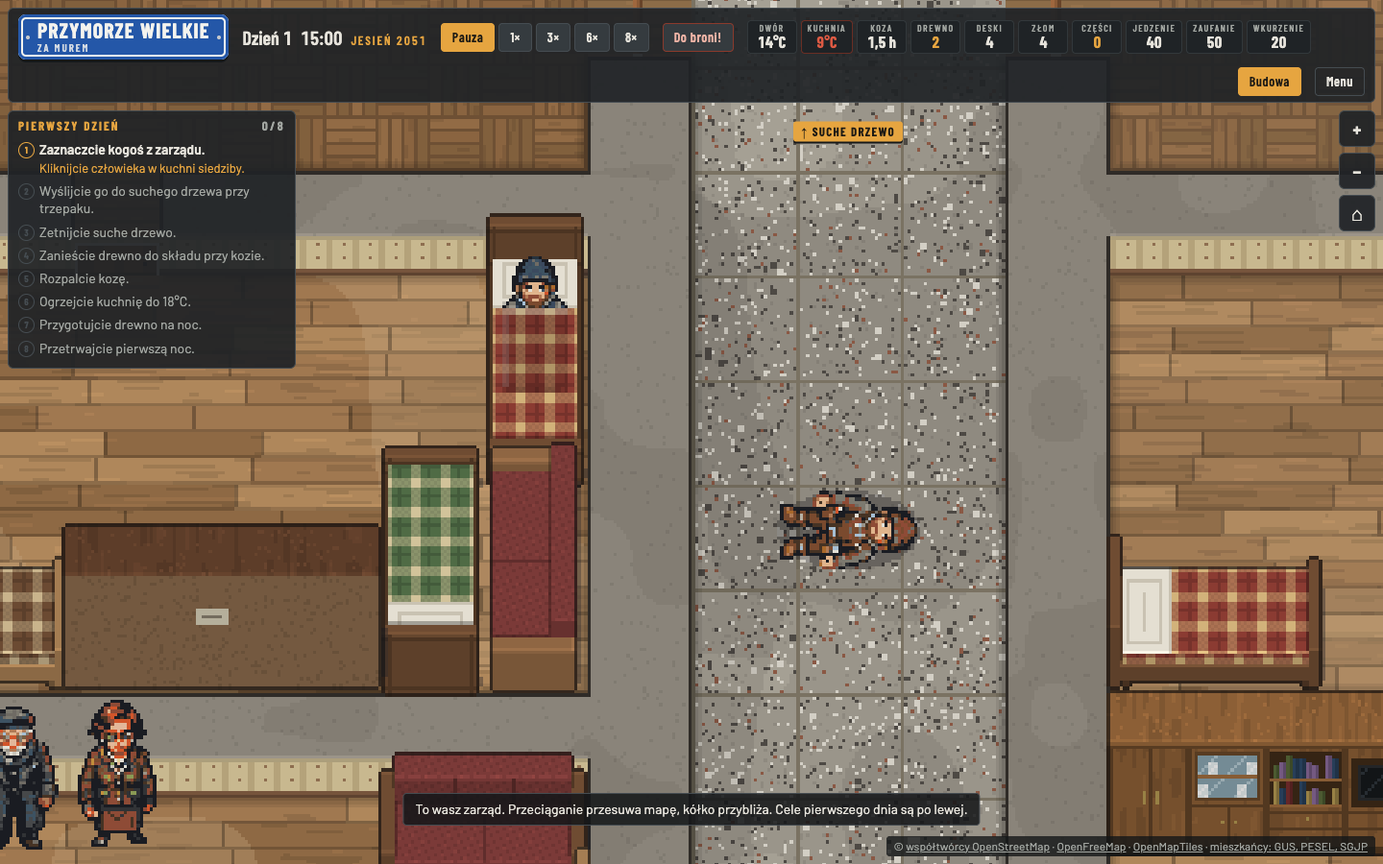
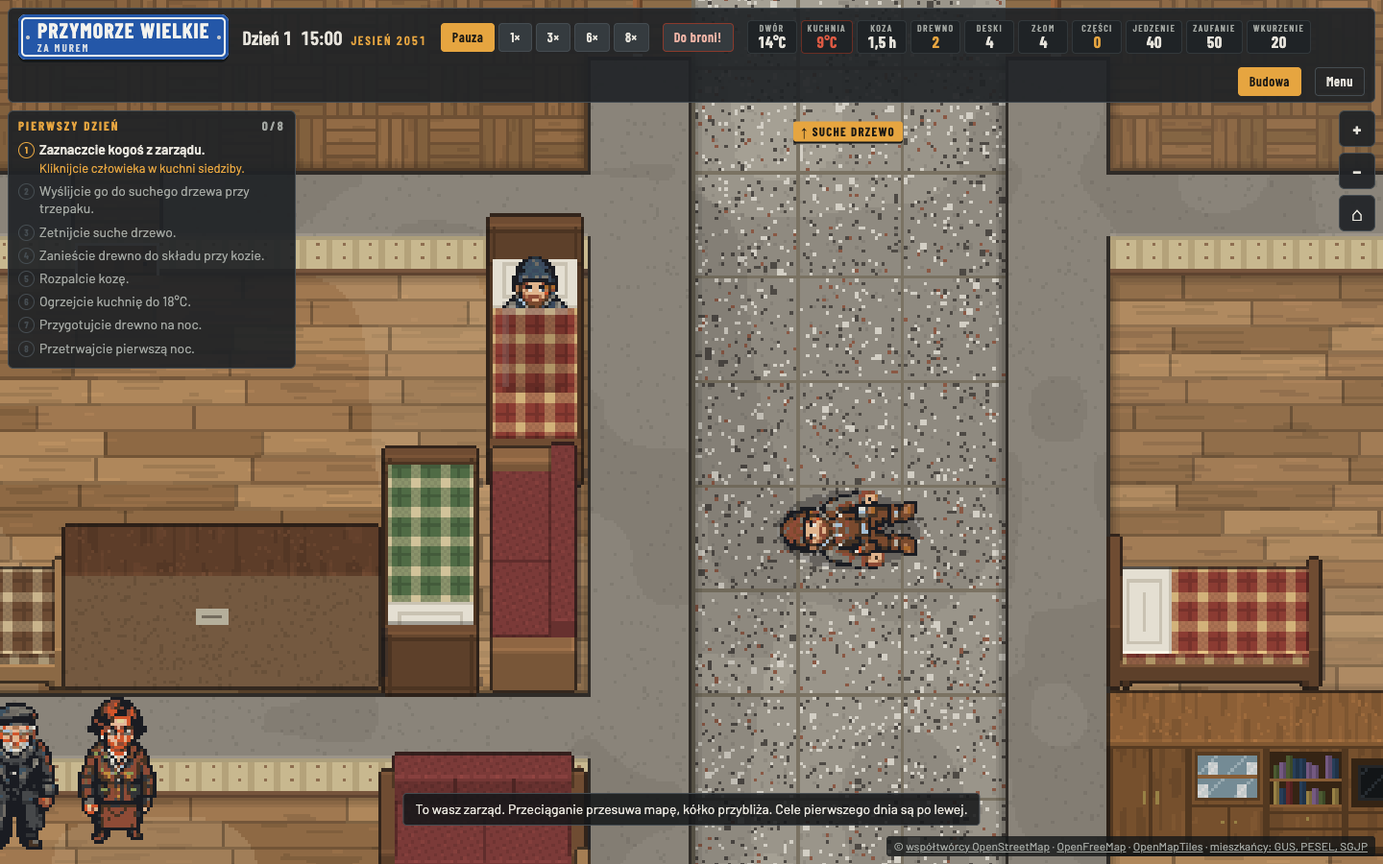
Dziennik, PIXELLAB.md i CLAUDE.md: kładzenie się, upadek i wstawanie z PixelLab
Wpis w POSTEP.md (koszt 24 z 43 generacji, decyzje, bramka), sekcje o przejściach w PIXELLAB.md, zdanie o przejściach w
CLAUDE.md, zrzuty w docs/postep (upadek, wstawanie, kładzenie się, leżenie w domu, zwłoki), wolnyBlok omija korony drzew.

Changed region(s): [[0.5625, 0.56, 0.6875, 0.6844], [0.0312, 0.8089, 0.125, 0.9956], [0.0, 0.8089, 0.0312, 0.9022]]

diff --git a/tools/shots.ts b/tools/shots.ts
@@ -2159,7 +2159,8 @@ const SHOTS: Shot[] = [
               });
             }
           });
-          zm.setCam(x0 + 6.5, y0 + 3.5, 2.2);
+          // środek kadru bliżej lewej, żeby pierwsza kolumna nie wypadała pod panelem celów
+          zm.setCam(x0 + 5.5, y0 + 3.5, 2.2);
           return ids;
         },
         [start[0], start[1], wynik] as const,
@@ -6491,7 +6492,8 @@ async function przewin(page: Page, sekundy: number) {
   await frames(page, 2);
 }
 
-/** wolny blok w × h kafelków najbliżej siedziby (jak wolnyRzad, ale na kilka rzędów) albo null */
+/** wolny blok w × h kafelków najbliżej siedziby (jak wolnyRzad, ale na kilka rzędów i poza koronami drzew, które
+    przykrywają pionki) albo null */
 async function wolnyBlok(page: Page, w: number, h: number): Promise<[number, number] | null> {
   return page.evaluate(
     ([w, h]) => {
@@ -6501,8 +6503,23 @@ async function wolnyBlok(page: Page, w: number, h: number): Promise<[number, num
       const b = sim.w.buildings[sim.w.hq];
       const cx = Math.round((b.x0 + b.x1) / 2);
       const cy = Math.round((b.y0 + b.y1) / 2);
+      // kafelki pod koronami drzew (bez krzaków): korona rysuje się nad pionkami
+      const korona = new Uint8Array(size * size);
+      for (const t of sim.w.trees) {
+        if (t.kind === 2) continue;
+        const r = Math.ceil(t.r) + 1;
+        for (let dy = -r; dy <= r; dy++)
+          for (let dx = -r; dx <= r; dx++) {
+            const x = Math.floor(t.x) + dx;
+            const y = Math.floor(t.y) + dy;
+            if (x >= 0 && y >= 0 && x < size && y < size && Math.hypot(x + 0.5 - t.x, y + 0.5 - t.y) <= t.r + 0.7)
+              korona[y * size + x] = 1;
+          }
+      }
       const wolny = (x: number, y: number) =>
-        !sim.blocked[y * size + x] && !st.things.some((t) => x >= t.x && x < t.x + t.w && y >= t.y && y < t.y + t.h);
+        !sim.blocked[y * size + x] &&
+        !korona[y * size + x] &&
+        !st.things.some((t) => x >= t.x && x < t.x + t.w && y >= t.y && y < t.y + t.h);
       let najlepszy: [number, number] | null = null;
       let najblizej = 1e9;
       for (let y = cy - 30; y <= cy + 30; y++)

diff --git a/docs/POSTEP.md b/docs/POSTEP.md
@@ -910,6 +910,33 @@ Zrzuty obejrzane (`docs/postep/`): `m3-lezenie-dom.png` (śpiący w łóżku z g
 
 Bramka na 467a454 (kod) i tym wpisie: `npm test` 2267 zdanych, 1 oczekiwana porażka, 8 pominiętych (135 plików; przed gałęzią było 2227 i 132 pliki, nowe testy: `lezenie`, `bron-pixellab`, `dlonie` i dopisane w `ludzie-pixellab` i `ludzie-layer`); `npx biome check src tests tools server index.html` i `tsc --noEmit` czyste; `npm run build` bez błędów; boty bez zmian (`npm run bot` da4b24e0 i dad44c81, `npm run bot:zombie` 18b03936 i e8b7d9d5; w `src/sim`, `src/gov` i `src/core` zero zmian); pełne `npm run shots -- --dalej` 237 scenariuszy (234 dotychczasowe i 3 nowe) bez błędów strony i bez ponowień; obejrzane `kotwica-lezenie-dom`, `kotwica-lezenie-zwloki`, `kotwica-bron-cios` i `kotwica-pozy-dom`, a trzy nowe scenariusze przechodzą też z `--kod`. `npm run perf` (Przymorze 150 pionków, także ze stadem w nocy przy 8×, laptop i telefon z CPU 4×) 59,9 do 60,0 kl/s, zero klatek powyżej 33 ms, raz najgorsza klatka 33 ms na telefonie (kamera stoi, stado).
 
+### M3: kładzenie się, upadek i wstawanie z PixelLab, 19.10.2026 (gałąź `claude/vigilant-goldwasser-35dc29` od `m3-ludzie-lezenie-bron` 32d04d2 scalonej z `pelna-gra` b424828, lokalnie, nic nie wypchnięte)
+
+Cztery postacie zarządu (emeryt, emerytka, złota rączka, młoda) mają animacje upadku przy śmierci, kładzenia się i wstawania z PixelLab, a widok gra je raz przy zmianie stanu. Zamówione według zadania z koordynacji: szablony `falling-back-death` i `getting-up`, 24 generacje z abonamentu, 0 USD kredytów (limit z zadania 43 z 400); z uzgodnionych 400 zostało 19. Symulacja bez zmian (zero zmian w `src/sim`, `src/gov`, `src/core`).
+
+Zamówienia i koszt (rachunki zamówień, lista z kosztem przy każdej postaci w `assets/manifest.json`: `animacje` i `odrzucone`):
+- Pilot: emeryt, zachód, `falling-back-death` (1) i `getting-up` (1), obejrzane w arkuszu klatek; potem południe i północ emeryta obu szablonów (4). Upadek wyszedł czytelnie w trzech kierunkach, wstawanie tylko na zachód: na południu zaczyna się od przysiadu, na północy od czworaków i bez czapki, więc te dwa kierunki odrzuciłem (2 generacje, usunięte z PixelLab).
+- Pozostałe trzy postacie: upadek w trzech kierunkach i wstawanie na zachód, po 4 generacje (12), za pierwszym razem bez poprawek. Razem przejścia to 18.
+- Poprawki z listy opcjonalnych, z pozostałego budżetu (6): warta emeryta na zachód z lampą w lewej ręce (1, wcześniej lampa była schowana za ciałem) i gotowanie na zachód z garnkiem na ziemi u wszystkich czterech (5: u emeryta próba w osobnej grupie i drugie zamówienie w grupie właściwej, bo identyczne zamówienie PixelLab uznał za to samo ujęcie i nie dopiął go do grupy). Celowania na południe i północ nie ruszałem. Zastąpione wersje zachodu są w manifeście w `odrzucone` z kosztem.
+- Nauki: `docs/PIXELLAB.md`, „Czego nauczyły przejścia” i „Koszt przejść i poprawek”.
+
+Co jest gdzie:
+- Atlas (`npm run atlasy`): prace `smierc` (7 klatek, południe, północ i zachód, wschód to lustro) i `wstawanie` (5 klatek, tylko zachód z lustrem; `PRACE` ma opcje `kotwica` i `tylkoZachod`). `ludzie.png` 2048×916 (było 2048×875), 614 kB (było 571), `grafika.json` 286 kB. Kotwica klatek schodzi liniowo od dolnej krawędzi sylwetki (stoi) do jej środka 2 px nad punktem pionka (leży): `kotwicaPrzejscia` w `tools/ludzie.ts`, a `SRODEK_LEZACEGO` w `animacjePozy.ts` to ten sam środek co komórka leżenia w `poseOf` (test w `animacje-pozy.test.ts`), więc ostatnia klatka upadku i pierwsza wstawania stoją tam, gdzie zaczyna się leżenie.
+- Widok: `src/render/przejscia.ts` (bez PixiJS, testy w Node): `PrzejsciaPionkow` wykrywa kładzenie się i wstawanie po zmianie `lie` w pozie, `NoweZwloki` wykrywa zwłoki, które powstały po pierwszej klatce widoku, i pamięta ostatni kierunek członka zarządu, bo jego pionek znika w tym samym ticku, w którym powstają zwłoki. `ludziePixellab.ts`: `przejscie`, `klatkaZwlok`, `klatekPrzejscia`, `maPrzejscie`; `ludzieLayer.ts`: tekstury; `view.ts`: wpięcie w pętlę pionków i w `drawCorpses`. Stan przejść tylko w widoku, nigdy w `SimState`.
+- Zachowanie: pionek, który zaczyna spać na podłodze, kładzie się (wstawanie od tyłu: stoi, przysiad, półsiad), potem leży w komórce z klatki stania; strona głowy idzie z kierunku pionka (`STRONA_PODLOGI`: południe w lewo, północ i zachód w prawo, wschód w lewo), tak kończy się upadek w danym kierunku. Kto się budzi, wstaje od miejsca, w którym leżał, i dogania prawdziwe położenie do końca animacji (symulacja puszcza go ścieżką od razu). Zwłoki członka zarządu, który zginął podczas gry, upadają w kierunku, w którym patrzył, i zostają na ostatniej klatce upadku. Czas przejść to czas gry (8 klatek na sekundę wstawania, 10 upadku), więc na pauzie stoją, a z tempem gry przyspieszają. Bez przejść: łóżko (ma własną komórkę z kocem), mieszkańcy, szabrownicy, handlarz, sąsiedzi i szwendacze (brak animacji), zwłoki z wczytanej gry i ktoś, kto zginął we śnie (leżą od razu).
+
+Sprawdzone w żywej grze (Chromium, tempo 1×, serwer deweloperski): zabicie członka zarządu przez symulację dało upadek w 7 różnych klatkach co 100 ms, kotwica schodziła od stóp do środka leżącego ciała, sprite zostawał na ostatniej klatce, wpis upadku znikał; praca snu na podłodze dała kładzenie, a gdy symulacja za dnia od razu zakończyła sen, wstawanie w 5 klatkach co 120 ms i powrót do stania.
+
+Decyzje do przejrzenia przez Mateusza:
+- Przejścia mają tylko cztery postacie zarządu. Mieszkańcy, szabrownicy, handlarz i sąsiedzi nadal leżą z komórki i padają bez animacji. Upadek w trzech kierunkach i wstawanie na zachód to 4 generacje na postać, czyli około 80 dla dwudziestu mieszkańców (zostało 19 z 400).
+- Zwłoki leżą w pozie ostatniej klatki upadku (płasko na plecach z uniesioną ręką), a śpiący na podłodze w komórce z klatki stania, więc kładzenie się kończy skokiem z półsiadu na płasko, jedną klatkę. Gdyby przeszkadzało, komórka śpiącego mogłaby brać pozę z innej klatki albo z kolejnej generacji.
+- W łóżku przejść nie ma: pionek pod kocem leży głową na poduszce, a pełne ciało wstające z łóżka wymagałoby animacji ułożonej wzdłuż łóżka.
+- Zwłoki szabrownika, handlarza i sąsiada to nadal losowy dorosły mieszkaniec (rzecz zna tylko wygląd), więc bez upadku z PixelLab.
+
+Zrzuty obejrzane (`docs/postep/`): `m3-upadek.png` (cztery postacie w czterech kierunkach, każda w siedmiu klatkach upadku obok siebie), `m3-wstawanie.png` i `m3-kladzenie.png` (czterech z zarządu w czterech fazach), `m3-lezenie-dom.png` i `m3-lezenie-zwloki.png` (po zmianie: kładzenie się zakończone, zwłoki zarządu na ostatniej klatce upadku). Scenariusze `kotwica-upadek`, `kotwica-wstawanie` i `kotwica-kladzenie` są nowe (z `--kod` puszczają to samo z kodu, bez przejść), a `kotwica-lezenie-dom` i `kotwica-lezenie-zwloki` przewijają zegar gry pomocnikiem `przewin` (przesuwa `st.tick` bez kroków symulacji, bo pionki ze scenariusza budziłyby się, a przejścia na pauzie stoją).
+
+Bramka na 60ada45 (kod) i tym wpisie: `npm test` 2308 zdanych, 1 oczekiwana porażka, 8 pominiętych (137 plików; nowe testy: `przejscia`, a dopisane w `animacje-pozy`, `ludzie-atlas`, `grafika-ludzie`, `ludzie-pixellab` i `ludzie-layer`); `npx biome check src tests tools server index.html` i `tsc --noEmit` czyste; `npm run build` bez błędów; `npm run atlasy -- --sprawdz` aktualne; boty bez zmian (`npm run bot` da4b24e0 i dad44c81, `npm run bot:zombie` 18b03936 i e8b7d9d5; w `src/sim`, `src/gov` i `src/core` zero zmian); pełne `npm run shots -- --dalej` 240 scenariuszy (237 dotychczasowych i 3 nowe) bez błędów i bez ponowień; obejrzane `kotwica-upadek`, `kotwica-wstawanie`, `kotwica-kladzenie`, `kotwica-lezenie-dom`, `kotwica-lezenie-zwloki` i `kotwica-pozy-dom`, a nowe i zmienione scenariusze przechodzą też z `--kod`. `npm run perf` (150 pionków, laptop i telefon z CPU 4×, kamera stoi i jedzie): Przymorze przy 1× 59,9 do 60,0 kl/s, Przymorze ze stadem 60 szwendaczy nocą przy 8× 59,8 do 60,0 (raz najgorsza klatka 33 ms na telefonie), Lanciego przy 8× 60,0; wszędzie zero klatek powyżej 33 ms, p95 16,7 do 16,8 ms (maszyna była obciążona kilkoma sesjami naraz, load 9 do 19).
+
 ## Następne
 
 - Wspólny płot z duchem planu i z jednego materiału (9007cd2), kotwica stylu w grze (d0256f2: trawnik, chodnik, bloki i trzepak z PixelLab) i płot odporny na napór w trybie zombie (945f565) są w `pelna-gra` i od 18.10.2026 wieczorem na serwerze testowym (30b1cb5), od wdrożenia f9ad33d także menu budowy z panelem z boku, od 6332830 naprawa pni na linii obwodu, a od c9c9cd1 postacie z PixelLab z animacjami (wpisy wyżej). Następne wdrożenie: mapa miasta, gdy jej sesja rozstrzygnie cele karty nocy w domu i przejdzie pełne zrzuty. GitHub Pages: PR #7 czeka na decyzję i scalenie Mateusza. W trybie zombie siatkę przewraca dopiero tłum ponad 16 szwendaczy w jednym miejscu, a dymek paska „Siatka” pokazuje największy tłok. Do sprawdzenia w grze: na Lanciego otworzyć 10F i zlecić wspólny płot; z samymi deskami albo samym złomem menu pokazuje płot z jednego materiału.
@@ -923,6 +950,8 @@ Kotwica stylu w grze (18.10.2026): w `pelna-gra` od d0256f2 (przewinięcie po br
 Postacie z PixelLab w grze (18.10.2026): wszystkie 24 postaci z chodem i staniem, zarząd z 14 pracami, wybór po płci i wieku osoby i przemalowane wersje kolorystyczne (wpis „M3: postacie z PixelLab w grze”). Gałąź `m3-kotwica-w-grze`, lokalnie, czeka na scalenie do `pelna-gra` i na wdrożenie po OK Mateusza. Mateusz ocenia wygląd ludzi (zestawienia `docs/postep/m3-postacie-*.png` albo na żywo: ta sama gra z `?grafika=kod` i bez) oraz decyzje z końca wpisu. Po zmianie w `assets/raw` albo w manifeście: `npm run atlasy`; nowe animacje zamawia się przez MCP PixelLab i zbiera `npm run animacje`.
 
 Leżenie, zwłoki i nakładka broni z PixelLab (19.10.2026): gałąź `m3-ludzie-lezenie-bron`, lokalnie, od `m3-kotwica-w-grze` daf38a9 (wpis „M3: leżenie, zwłoki i nakładka broni z PixelLab”), czeka na scalenie wraz z postaciami i na OK Mateusza do wdrożenia. Mateusz ocenia wygląd leżących i zwłok (zestawienia `docs/postep/m3-lezenie-*.png` albo na żywo: śpiący w łóżku, ktoś bez łóżka na podłodze, zwłoki po walce) i decyzje z końca wpisu.
+
+Kładzenie się, upadek i wstawanie z PixelLab (19.10.2026): gałąź `claude/vigilant-goldwasser-35dc29` (z `m3-ludzie-lezenie-bron` 32d04d2 i `pelna-gra` b424828), lokalnie, wpis „M3: kładzenie się, upadek i wstawanie z PixelLab”, czeka na scalenie i na OK Mateusza do wdrożenia. Mateusz ocenia wygląd (zestawienia `docs/postep/m3-upadek.png`, `m3-wstawanie.png`, `m3-kladzenie.png` albo na żywo: zabić kogoś z zarządu, położyć kogoś na podłodze) i decyzje z końca wpisu. Po zmianie w `assets/raw` albo w manifeście: `npm run atlasy`.
 
 Angielski domyślnie (gałąź `angielski`, lokalnie, 18.10.2026): gotowy do scalenia do `pelna-gra` w całości (czubek gałęzi; ostatnia zmiana kodu 18a2501), ma w sobie `pelna-gra` ace6c0c z domem komitetu, handlarzem i wędrowcami. Po scaleniu i wdrożeniu Mateusz gra po angielsku i przegląda decyzje z „Decyzji” (słowniczek `docs/SLOWNICZEK-EN.md`); przełącznik EN/PL jest na karcie startowej i w Menu. Przy wdrożeniu: zapisy z nowej wersji mają w kronice teksty w obu językach przy tej samej wersji zapisu, więc stara wersja gry (wycofanie albo stary skrypt z pamięci przeglądarki) pokazałaby w kronice `[object Object]`; wycofywać tylko razem z czyszczeniem zapisów albo wcale.
 
@@ -1058,6 +1087,13 @@ Mateusz rano: lepiej wdrożyć na serwer w projekcie cergo (więcej miejsca i mo
   - `setScene` nie zeruje liczników i pionków; dziś scena ładuje się raz na stronę,
   - `pointercancel` traktowany jak puszczenie palca; rzadkie, bo plansza ma `touch-action: none`,
   - tasowanie przez `sort` i `Math.hypot`/`sin`/`cos` mogą dawać różne wyniki w różnych przeglądarkach; ważne, gdy zapisy będą przechodzić między przeglądarkami. Tasowanie w wydarzeniach zarządu poprawione 17.10.2026 (CI na Node 24); `Math.hypot`/`sin`/`cos` w decyzjach symulacji do sprawdzenia.
+- Przejścia leżenia z PixelLab (19.10.2026, sesja „Animacje przejść leżenia”, do przejrzenia przez Mateusza rano, koszt pomyłki: zamówienie dodatkowych generacji albo zmiana kilku stałych w `src/render/przejscia.ts`):
+  - kładzenie się, upadek i wstawanie mają tylko cztery postacie zarządu; mieszkańcy, szabrownicy, handlarz i sąsiedzi leżą z komórki i padają bez animacji (dla dwudziestu mieszkańców to około 80 generacji, zostało 19 z 400), więc dokupienie to decyzja po obejrzeniu wyglądu zarządu;
+  - zwłoki zarządu zostają w pozie ostatniej klatki upadku (płasko na plecach z uniesioną ręką), a śpiący na podłodze leży w komórce z klatki stania, więc kładzenie się kończy skokiem z półsiadu na płasko (jedna klatka);
+  - w łóżku przejść nie ma, bo łóżko ma własną komórkę z kocem, a ciało poziomo na nim nie leży;
+  - wstawanie jest tylko na zachód z lustrem na wschód (południe i północ z szablonu `getting-up` odrzuciłem, 2 generacje), a kładzenie się to wstawanie od tyłu; przy pobudce pionek dogania prawdziwe położenie w trakcie animacji (`u²`), bo symulacja puszcza go ścieżką od razu;
+  - tempo: wstawanie i kładzenie 8 klatek na sekundę gry, upadek 10 (`PRZEJSCIA` w `src/render/art/animacjePozy.ts`); czas to czas gry, więc na pauzie przejścia stoją;
+  - wydałem 24 z przydzielonych 43 generacji (18 na przejścia, 6 na poprawki warty emeryta na zachód i gotowania na zachód z garnkiem), celowania na południe i północ nie ruszałem, to znane ograniczenie modelu; kredytów USD 0.
 
 ## Zaparkowane
 - Menu budowy (18.10.2026), po wejściu badań: widok z kłódkami (`BUILD_MENU.showLocked`) i nazwy badań w `TECH_NAMES`, znaczek „NOWE” przy świeżo odblokowanych (potrzebuje stanu „co gracz już widział”), pracownia (miejsce do badań) jako pierwsza budowla projektu badań w zakładce Dom, kolejne zakładki (Jedzenie, Prąd, Obrona) razem z budowlami z gospodarki.
@@ -1071,9 +1107,9 @@ Mateusz rano: lepiej wdrożyć na serwer w projekcie cergo (więcej miejsca i mo
 - Przełącznik pięter z GDD (piwnica, parter, typowe piętro) jeszcze nie istnieje, przekrój pokazuje tylko parter siedziby (sprawdzone 18.10.2026 przy kotwicy stylu).
 - Surowce: porzucone hulajnogi i rowery z wypożyczalni po całej mapie (nie blokują, więc nie zmieniają dróg ani skrótów), żeby okolica się wyczerpywała i trzeba było chodzić dalej; opis w projekcie surowców, etap 1c. Więcej wraków dalej od siedziby zmieniłoby skróty botów, bo wrak blokuje.
 - Kronika mieszkańców: „Padła chmura” w `src/mieszkancy/kronika.ts` przenieść z lat 2039–2043 na 2034 (Wielkie Wylogowanie z GDD) przy najbliższym podbiciu `WERSJA_GENERATORA`. Wstęp na karcie startowej (`LORE`) może wtedy też wspomnieć Wylogowanie, po scaleniu wersji angielskiej.
-- Animacje kładzenia się, śmierci i wstawania z PixelLab (18.10.2026, M3; leżenie i zwłoki są od 19.10.2026 z klatki stania, bez generacji): leżący po prostu leży, bez kładzenia się i bez wstawania, ranny też. Osobne zamówienie (szablony `falling-back-death`, `getting-up`), około 1 generacji na kierunek. Zwłoki szabrownika, handlarza i sąsiada to losowy dorosły mieszkaniec (rzecz zna tylko wygląd), ta sama postać co za życia wymagałaby numeru osoby w wpisie zmarłych w symulacji.
+- Przejścia leżenia dla mieszkańców i innych (18.10.2026, M3; kładzenie się, upadek i wstawanie z PixelLab dla zarządu są od 19.10.2026): tylko cztery postacie zarządu mają animacje, mieszkańcy, szabrownicy, handlarz i sąsiedzi leżą z komórki i padają bez animacji (upadek w trzech kierunkach i wstawanie na zachód to 4 generacje na postać, około 80 dla dwudziestu mieszkańców). Zwłoki szabrownika, handlarza i sąsiada to losowy dorosły mieszkaniec (rzecz zna tylko wygląd), ta sama postać co za życia wymagałaby numeru osoby w wpisie zmarłych w symulacji. W łóżku przejść nie ma (łóżko ma własną komórkę), a rannego na ziemi gra nie ma.
 - Nakładki broni dla klatek PixelLab (18.10.2026, M3; korekta z pomiaru dłoni od 19.10.2026): położenie dłoni z `handOf` jest policzone dla postaci z kodu. Pomiar `node tools/dlonie.ts`: mediana błędu w ciosie 8 px, siedem wpisów korekty (`art/bronPixellab.ts`) zbija największe odchylenia, reszta zostaje w szumie detektora. Pełne dopasowanie to prace zarządu z konkretną bronią (kij, siekiera, dzida, nóż, łom) albo ręczny opis dłoni w klatkach ciosu. Celowanie ma pistolet w klatkach i nakładki nie ma, dzida bije klatkami ciosu.
-- Poprawki animacji zarządu (18.10.2026, M3; obejrzane ponownie 19.10.2026, nie poprawiane): warta emeryta w kierunku zachodnim bez widocznej lampy, celowanie na południe i północ w bok ekranu, gotowanie na zachód bez garnka. Każda próba to generacja na kierunek; zostało 43 z 400 uzgodnionych generacji.
+- Poprawki animacji zarządu (18.10.2026, M3; warta emeryta na zachód i gotowanie na zachód poprawione 19.10.2026, wpis „M3: kładzenie się, upadek i wstawanie z PixelLab”): zostaje celowanie na południe i północ w bok ekranu (model nie umie wycelować do patrzącego) i gotowanie emerytki na zachód z garnkiem po stronie, w którą nie patrzy. Każda próba to generacja na kierunek; zostało 19 z 400 uzgodnionych generacji.
 - Prace mieszkańców poza chodem i staniem (18.10.2026, M3): siedzenie przy stole, gotowanie i reszta prac rysuje u mieszkańców kod (inna twarz niż ich postać z PixelLab). Dotyczy tylko pionków z zadaniem, mieszkańcy z mapy głównie chodzą i stoją.
 - Niestabilne scenariusze `npm run shots` (18.10.2026, M3, przy zajętym komputerze, kilka sesji naraz): `dotyk` („pionek się nie ruszył”) padł raz na kodzie sprzed M3 i raz po, `m2f2-spotkanie` raz w serii miał inny stan panelu celów (1/8 zamiast 0/8), a `worker-zgodnosc` raz na kilkanaście przebiegów pokazał różnice między workerami a głównym wątkiem; jedyne trafienie, które udało mi się obejrzeć (375 pikseli w ramce 54,161 do 272,338 w kadrze `hq,1&przekroj=0`), to antyaliasing liter panelu celów (tekst DOM), nie kawałki mapy, a w ponad 100 próbach rysowania kawałków na `pelna-gra` i na tej gałęzi różnic nie było. Do zrobienia: ukryć `#goals` obok `#fps` w `worker-zgodnosc`, a `npm run shots` mógłby mieć `--dalej` (nie kończyć na pierwszym błędzie i wypisać nieudane na końcu), bo pełny przebieg trwa 8 do 15 minut i każdy zbłąkany błąd każe zaczynać od nowa.
 - Reszta budynków z PixelLab (18.10.2026, M3): domy z dachówką, garaże, pawilony, szkoły i kościoły rysuje dalej kod, więc obok bloków z PixelLab stoją budynki w dawnych kolorach. Według `docs/PIXELLAB.md` to osobne zestawy (`create_building_kit`, `create_image_pro` ze wzorcem kawałka bloku), więc osobna paczka generacji po zgodzie Mateusza.

diff --git a/docs/PIXELLAB.md b/docs/PIXELLAB.md
@@ -120,13 +120,17 @@ Gra wczytuje `public/assets/grafika.json` i atlasy przy starcie (`src/render/gra
 - Teren w kawałkach mapy (także w workerach): trawnik, park, chodnik i ścieżka z kafelków Wanga na podwójnej siatce (narożnik kafelka Wanga w środku kafelka świata, granica terenów na krawędzi kafelka). Narożnik liczy się jako trawnik dla trawy, parku i lasu, a jako chodnik dla całej reszty, więc trawnik przy jezdni, budynku albo wodzie ma krawężnik, a przy parku przechodzi bez krawężnika. Las, jezdnia, parking, woda, piaskownica, boisko i działki zostają z kodu. Jednolite kafelki są odbite według miejsca. Chodnik przy jezdni ma krawężnik z kodu, a cały teren ciemnieje przy ścianach i w cieniu budynków jak dawniej.
 - Bloki (`cls === 'blok'`) z modułów: pas fasady z tyloma piętrami, ile ma budynek (13 px na piętro, `floorH` w stylu budynku), przęsła po x świata, nad drzwiami od południa moduł wejścia, na dachu papa z naklejkami i szwami i attyka od północy, zachodu i wschodu. Dach bez maszynowni, kominów i anten z kodu (jak w zatwierdzonym kadrze). Domy, garaże, pawilony i reszta budynków zostają z kodu, z dawną fasadą 9 px na piętro.
 - Trzepak od frontu (3×1) z PixelLab, ze stopami w tym samym wierszu kafelka co betonowe stopy trzepaka z kodu. Trzepak bokiem (1×3) zostaje z kodu, bo PixelLab dał tylko widok od frontu.
-- Postacie w grze (animacje z PixelLab): atlas `ludzie.png` i opis `postacie` w `grafika.json`. Pionek bierze postać z obsady po płci i wieku swojej osoby (`plec` i przedział `wiek` w manifeście): zarząd z czterech postaci zarządu (emeryt i emerytka od 58 i 52 lat, złota rączka i młoda poniżej), mieszkańcy z pozostałych dwudziestu, pionek bez osoby (przybysz, tłum) po numerze wyglądu. Ta sama osoba zawsze wygląda tak samo. Pozę z gry (`poseOf` w `src/render/poses.ts`) zamienia na animację `kluczAnimacji` i `numerKlatki` (`src/render/art/animacjePozy.ts`): chód i stanie, a u zarządu niesienie, rąbanie, klękanie, gotowanie, siedzenie (też drzemka), wartę, cios, celowanie, przeszukiwanie, młotek, deski i złom. Kierunek bez własnych klatek to odbity zachód. Leżenie (sen, zwłoki), szwendacze i brakująca praca zostają z kodu.
+- Postacie w grze (animacje z PixelLab): atlas `ludzie.png` i opis `postacie` w `grafika.json`. Pionek bierze postać z obsady po płci i wieku swojej osoby (`plec` i przedział `wiek` w manifeście): zarząd z czterech postaci zarządu (emeryt i emerytka od 58 i 52 lat, złota rączka i młoda poniżej), mieszkańcy z pozostałych dwudziestu, pionek bez osoby (przybysz, tłum) po numerze wyglądu. Ta sama osoba zawsze wygląda tak samo. Pozę z gry (`poseOf` w `src/render/poses.ts`) zamienia na animację `kluczAnimacji` i `numerKlatki` (`src/render/art/animacjePozy.ts`): chód i stanie, a u zarządu niesienie, rąbanie, klękanie, gotowanie, siedzenie (też drzemka), wartę, cios, celowanie, przeszukiwanie, młotek, deski i złom. Kierunek bez własnych klatek to odbity zachód. Szwendacze i brakująca praca zostają z kodu, a leżenie (sen, zwłoki) to komórka z klatki stania, z przejściami z PixelLab dla zarządu (niżej).
 - Kolory: z jednej postaci robi się pięć wersji (oryginał i ubranie przemalowane na cztery rampy palety), więc 20 mieszkańców to 100 wyglądów. Przemalowanie robi gra w locie przy pierwszym użyciu wersji (`atlasWersji`, kopia pasa wierszy atlasu), a kolory ubrania są przy postaci w `grafika.json`: te kolory kandydatów (z manifestu albo zgadnięte), które w statycznej postaci leżą w większości na tułowiu (`koloryUbrania`). Pasa wysokości nad stopami nie ma, bo pozy przysiadu, klęczenia i siedzenia przesuwają ciało względem niego (czapka i broda zmieniały kolor razem z pozą); kolor dzielony z włosami, butami albo obrysem zostaje jak był. Zarząd ma wersje dla dubli: pierwszy pionek z danej postaci jest w oryginale, następne na rampach od najdalszej od jej ubrania (`rampyOdNajdalszej`), żeby nie były kopiami.
 - Kotwica stóp: PixelLab stawia postać na środku płótna każdej animacji (48 px szablony, 64 albo 68 px animacje z opisu, każdy kierunek może mieć inne), więc stopy statycznej postaci względem środka (`stopyWzgledne`) są kotwicą wszystkich jej klatek. Najniższy piksel klatki odpada, bo siekiera wbita w ziemię, garnek albo gwóźdź podnosiłyby postać nad ziemię (klękanie, w którym stopy się podnoszą, stoi dolną krawędzią sylwetki).
 - Broń: nakładka z kodu zostaje przy trzymaniu i ciosie. Przy celowaniu postać z PixelLab ma już pistolet w rękach, więc nakładki nie ma, a dzida (pchnięcie) bije klatkami ciosu z nakładką dzidy. Dłoń z `handOf` jest policzona dla postaci z kodu, więc w klatkach ciosu z PixelLab nakładka odstawała (pomiar `node tools/dlonie.ts`, plamy skóry poza głową: mediana błędu 8 px, w zamachu do 13 px; przy trzymaniu do 3 px, bez korekty). Tabela korekt `src/render/art/bronPixellab.ts` ma tylko wpisy, na które zgadza się pięć z sześciu wariantów próbki koloru skóry (detektor jest szumny, mediana zależy od próbki, czasem nawet znak): zamach z przodu i z tyłu, dokończenie z boku i pchnięcie dzidą. Po zmianie postaci albo ciosu przelicz ją tym narzędziem. Pełne rozwiązanie to prace z konkretną bronią w ręku (kij, siekiera, dzida, nóż, łom), czyli generacje na broń i kierunek.
-- Leżenie i zwłoki bez generacji (19.10.2026): komórka leżenia powstaje z klatki stania przodem (kierunek południowy, klatka 0), obróconej ćwiartkami (`src/render/art/lezenie.ts`). Na podłodze cała sylwetka na lekkim cieniu i zawsze poziomo (głową do góry wygląda jak stojąca), w łóżku głowa z karkiem i półprzezroczysty koc, a łóżko z własnym kocem rysuje rzecz pod spodem. Zwłoki zarządu mają postać zmarłego, inne to dorosły mieszkaniec po wyglądzie. Tego, czego obrót nie da (kładzenie się, upadek, wstawanie), brakuje do osobnego zamówienia: szablony `falling-back-death` i `getting-up`, około 1 generacji na kierunek.
+- Leżenie i zwłoki bez generacji (19.10.2026): komórka leżenia powstaje z klatki stania przodem (kierunek południowy, klatka 0), obróconej ćwiartkami (`src/render/art/lezenie.ts`). Na podłodze cała sylwetka na lekkim cieniu i zawsze poziomo (głową do góry wygląda jak stojąca), w łóżku głowa z karkiem i półprzezroczysty koc, a łóżko z własnym kocem rysuje rzecz pod spodem. Zwłoki zarządu mają postać zmarłego, inne to dorosły mieszkaniec po wyglądzie. Tego, czego obrót nie da (kładzenie się, upadek, wstawanie), dają od 19.10.2026 animacje z PixelLab dla czterech postaci zarządu (następny punkt); mieszkańcy dalej leżą z komórki.
+- Przejścia między staniem a leżeniem (19.10.2026): upadek przy śmierci (klucz `smierc`, szablon `falling-back-death`, 7 klatek, południe, północ i zachód, wschód to lustro zachodu) i wstawanie (`wstawanie`, szablon `getting-up`, 5 klatek, tylko zachód z lustrem). Kładzenie się to wstawanie od tyłu. Widok sam wykrywa zmianę stanu (`src/render/przejscia.ts`, stan tylko w widoku, nigdy w `SimState`): pionek, który zaczyna leżeć na podłodze, kładzie się, kto przestaje, wstaje, a zwłoki członka zarządu, który zginął podczas gry, upadają w kierunku, w którym patrzył (pionek znika w tym samym ticku, więc widok pamięta jego ostatni kierunek) i zostają na ostatniej klatce upadku. Zwłoki z wczytanej gry i ktoś, kto zginął we śnie, leżą od razu. Czas animacji to czas gry (8 klatek na sekundę wstawania, 10 upadku), więc na pauzie stoi, a z tempem gry przyspiesza. Na podłodze strona głowy idzie z kierunku pionka (`STRONA_PODLOGI`: południe w lewo, północ i zachód w prawo, wschód w lewo), tak kończy się upadek w danym kierunku, więc kładzenie, komórka leżenia i wstawanie stoją po tej samej stronie. W łóżku przejść nie ma (łóżko ma własną komórkę z głową i kocem, a ciało poziomo nie leży). Pobudka: pionek rusza z miejsca, w którym leżał, i dogania prawdziwe położenie do końca animacji (na początku powoli, na końcu szybciej), bo symulacja po pobudce od razu puszcza go ścieżką.
+- Kotwica klatek przejść: PixelLab wyśrodkowuje ciało w płótnie, więc stojąca klatka ma stopy nisko, a leżąca środek ciała w środku płótna. Kotwica schodzi liniowo od dolnej krawędzi sylwetki (stoi) do jej środka 2 px nad punktem pionka (leży, tak samo jak komórka leżenia z kodu): `kotwicaPrzejscia` w `tools/ludzie.ts`, `SRODEK_LEZACEGO` w `animacjePozy.ts`, a test w `animacje-pozy.test.ts` pilnuje, że to ten sam środek co w `poseOf`. Dzięki temu ostatnia klatka upadku i pierwsza wstawania stoją tam, gdzie zaczyna się leżenie, bez skoku.
 
 Koszt animacji obsady (18.10.2026, ostatecznie): szablon (`walking-4-frames`, `breathing-idle`, `crouching`, `cross-punch`) to 1 generacja na kierunek, animacja z opisu w trybie `pixminimax` (4 klatki, płótno 64 albo 68 px) też 1 na kierunek. Chód i stanie wszystkich 24 postaci w 4 kierunkach to 192 generacje, zarząd dostał do tego klękanie (4 kierunki) i 12 prac z opisu albo ciosu w trzech kierunkach (wschód to odbity zachód): 37 na postać, razem 148. W atlasie jest 340 generacji animacji, odrzucone próby i poprawki (pilotaże v3, drzemka, trzy podejścia do warty, pierwsze celowanie emeryta) dołożyły 17: 357 z uzgodnionych 400, wszystko z abonamentu (0 USD kredytów).
+
+Koszt przejść i poprawek (19.10.2026): 24 generacje, wszystko z abonamentu, 0 USD kredytów (limit z zadania: najwyżej 43 z 400 uzgodnionych). Przejścia to 18: upadek (`falling-back-death`) w trzech kierunkach dla czterech postaci zarządu 12, wstawanie (`getting-up`) na zachód dla czterech 4 i pilot wstawania emeryta na południe i północ 2 (odrzucony). Poprawki to 6: warta emeryta na zachód 1 i gotowanie na zachód 5 (po jednej generacji dla emerytki, złotej rączki i młodej, dwie dla emeryta: próba w osobnej grupie, a potem to samo w grupie właściwej, bo identyczne zamówienie PixelLab uznał za to samo ujęcie). Szablony na płótnie 48 px kosztują 1 generację na kierunek (potwierdzone na rachunku zamówienia) i schodzą w 50 do 100 sekund. Zastąpione wersje zachodu (warta emeryta, gotowanie czterech) są w manifeście w `odrzucone` z kosztem. `get_balance` przed pilotem pokazywał 1339 generacji (w zleceniu było 1504, różnica nie jest z tego zamówienia), po wszystkich zamówieniach 1295 (ubyło 44, z czego moje 24 według rachunków zamówień, resztę wydała w tym czasie inna sesja), a kredytów USD cały czas 0. Przy równoległych sesjach liczą się więc rachunki zamówień, nie różnica salda. Z uzgodnionych 400 zostało 19 (357 + 24).
 
 Opisy prac zarządu do powtórzenia (tryb `pixminimax`, `frame_count` 4, `keep_first_frame` false, kierunki `south`, `north`, `west`, `animation_name` jak w pierwszej kolumnie; `subject_description` to jedno zdanie o postaci, np. „a stocky handyman with stubble in a dark grey knitted beanie, navy blue work overalls over a grey hoodie and a tool belt”; klękanie to szablon `crouching` w czterech kierunkach, cios `cross-punch` w trzech):
 - `niesienie-px`: walking forward while carrying a big bundle of three thick firewood logs against the chest with both arms, the logs clearly visible
@@ -146,6 +150,14 @@ Czego nauczyły animacje (18.10.2026):
 - Tier 1 przyjmuje najwyżej 8 zadań naraz (wywołanie, które się nie mieści, odpowiada błędem i nic nie zamawia). Zadanie trwa 1 do 4 minut, w zapchanej kolejce eta pokazuje 7 do 15 minut, ale i tak schodzi w kilka. Paczka postaci (ZIP) odpowiada 423, dopóki jakaś jej animacja się generuje, a `tools/animacje.ts` ponawia pobieranie.
 - Płótno animacji z opisu zależy od sylwetki w danym kierunku (64 albo 68 px, w jednej animacji bywa różne), a szablony mają 48 px. Gotowanie bez garnka, celowanie bokiem w kierunku południowym i północnym (model nie umie wycelować do patrzącego) i warta bez latarni w kierunku zachodnim to ograniczenia, z którymi gra żyje. Warta: opis z „no fire” i „no glow” daje płaszcz w płomieniach, a latarnia „hanging from the right hand down at the side near the hip” daje czystą klatkę.
 - Prace z opisu w wersji v3 wyszły słabsze niż w `pixminimax` za ten sam koszt, a `crouching` jest przysiadem, w którym stopy się podnoszą (klęczenie przy kozie ma tylko taką wersję).
+
+Czego nauczyły przejścia (19.10.2026):
+- Szablon `falling-back-death` daje czytelny upadek w każdym z trzech kierunków i zawsze kończy leżeniem poziomo: zachód i północ głową w prawo, południe głową w lewo (z podkurczonymi nogami). Postać idzie, przewraca się do tyłu i leży na plecach z uniesioną ręką, 7 klatek. Wszystkie cztery postacie wyszły spójnie (ubranie, czapka, włosy bez zmian), za pierwszym razem, bez poprawek.
+- Szablon `getting-up` zaczyna się z leżenia półsiadem (tułów podparty, nogi wyciągnięte) i kończy staniem twarzą na zachód, 5 klatek, głowa leżącego w prawo. Na zachodzie działa, ale południe zaczyna się od przysiadu, a północ od czworaków i traci czapkę (odrzucone u emeryta, 2 generacje), więc wstawanie jest tylko na zachód, a lustro daje wschód. Upadek i wstawanie nie łączą się klatka w klatkę (upadek kończy płasko, wstawanie zaczyna półsiadem), ale po śmierci nikt nie wstaje, a kładzenie się do snu kończy komórka leżenia (jedno przejście od półsiadu do płaskiego leżenia).
+- Szablony nie zmieniają kolorów postaci, więc przemalowanie ubrania na rampy (wersje kolorystyczne) działa na ich klatkach bez zmian.
+- Poprawka warty emeryta na zachód: przy patrzeniu na zachód widać lewy bok postaci, a prawa ręka (z niej wisiała latarnia) jest za ciałem. Ten sam opis z lampą w lewej ręce dał lampę widoczną przy biodrze za pierwszym razem (u pozostałych trzech postaci lampa na zachodzie była już widoczna).
+- Poprawka gotowania na zachód: bez słowa o garnku na ziemi model rysował w widoku z boku samą łyżkę (na południu i północy garnek się rysował). Opis „stirring a big cooking pot standing on the ground right in front of the feet with a long wooden spoon: leaning slightly forward, the left arm moving the spoon in circles inside the pot, the pot clearly visible” dał duży garnek u wszystkich czterech postaci; u emerytki garnek stoi po drugiej stronie, niż patrzy (postać odwrócona do widza w trzech czwartych), u pozostałej trójki przed nią.
+- Podmiana kierunku w grupie: `delete_animation` z `animation_group_id` i `direction`, potem `animate_character` z tą samą grupą i `animation_name`. Identyczne zamówienie (ten sam opis i opis postaci) PixelLab uznaje za to samo ujęcie: odpowiada „already queued or complete”, nie liczy i nie dopina go do innej grupy, więc na świeże ujęcie trzeba zmienić słowa opisu. Identyfikatory grup są w `get_character` (nie ma ich w `metadata.json` z paczki).
 
 
 ## Pierwsza fala assetów (wycinek pionowy)

diff --git a/CLAUDE.md b/CLAUDE.md
@@ -90,7 +90,7 @@ Symulacja (`src/sim/`): `createSim(world, seed, opts)` zwraca `SimState`, zwykł
 
 Zarząd (`src/gov/`: karta nocy, uchwały, zaufanie i wkurzenie, wydarzenia) nie importuje `src/sim`. Most to `src/sim/gov.ts`: `govInput()` buduje `GovInput` (odczyt w kształcie `snapshot()` z `src/sim/snapshot.ts`), `govUpdate()` oddaje `GovEffects`, a `applyGov()` stosuje je w symulacji. Zarząd ma własny stan JSON z własnym ziarnem i liczy się co sekundę przy ekranie (bez pauzy i bez otwartego okna), a nie co tick: karta nocy wypada o 20:00 czasu gry, ale tempo wydarzeń i bramki etapów mierzy się w minutach przy ekranie. `pending()` mówi, które okno czeka: karta nocy, uchwała, wydarzenie albo raport.
 
-Rysowanie (`src/render/`) tylko czyta stan. `GameView` w PixiJS 8 trzyma kawałki mapy 32×32 m w dwóch poziomach (32 i 8 px na metr), a rysuje je pula workerów na OffscreenCanvas (`chunks.ts`, `chunkWorker.ts`) albo główny wątek przy `worker=0`. PixiJS importują tylko `view.ts` i warstwy `*Layer.ts`; reszta (`chunks.ts`, `game.ts`, `section.ts`, `light.ts`, grafika zastępcza w `render/art/`) nie zależy od PixiJS i ma testy w Node. Noc to mapa światła mnożona przez obraz, przekrój to wnętrze zamiast dachu przy zbliżeniu.
+Rysowanie (`src/render/`) tylko czyta stan. `GameView` w PixiJS 8 trzyma kawałki mapy 32×32 m w dwóch poziomach (32 i 8 px na metr), a rysuje je pula workerów na OffscreenCanvas (`chunks.ts`, `chunkWorker.ts`) albo główny wątek przy `worker=0`. PixiJS importują tylko `view.ts` i warstwy `*Layer.ts`; reszta (`chunks.ts`, `game.ts`, `section.ts`, `light.ts`, grafika zastępcza w `render/art/`) nie zależy od PixiJS i ma testy w Node. Noc to mapa światła mnożona przez obraz, przekrój to wnętrze zamiast dachu przy zbliżeniu. Przejścia między staniem a leżeniem (kładzenie się, wstawanie, upadek przy śmierci; animacje z PixelLab tylko dla czterech postaci zarządu) wykrywa i trzyma sam widok (`przejscia.ts`, bez PixiJS, testy w Node), nigdy `SimState`; ich czas to czas gry (`st.tick`), więc przy `speed=0` stoi, a scenariusze zrzutów przesuwają go pomocnikiem `przewin` w `tools/shots.ts`.
 
 Gra sieciowa (projekt `docs/superpowers/specs/2026-10-18-multiplayer-design.md`, etap 1: gra jeszcze tego nie woła): `server/` to osobny serwer Node 24 bez zależności z npm (`node:http`, `node:sqlite`) z kontami, zajętymi klatkami i zapisem w chmurze, `src/net/protokol.ts` to typy wspólne z klientem `src/net/api.ts`. Klucze budynków i klatek wspólne dla graczy liczy `src/world/klucze.ts` z tagów `zm:klucz` i `zm:os`, które `toGeoT` i `toGeo` dopisują z dokładnego obrysu w pikselach kafelków; demo i stare zapisy ich nie mają. Zajęte klatki mają wchodzić do symulacji tylko jako wejście startu albo polecenie w kolejce, nigdy z sieci w środku kroku.
 
